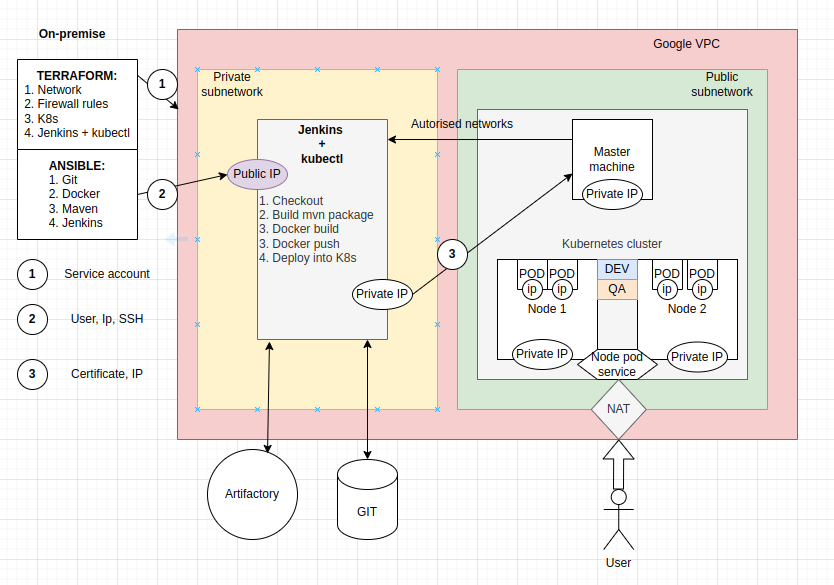
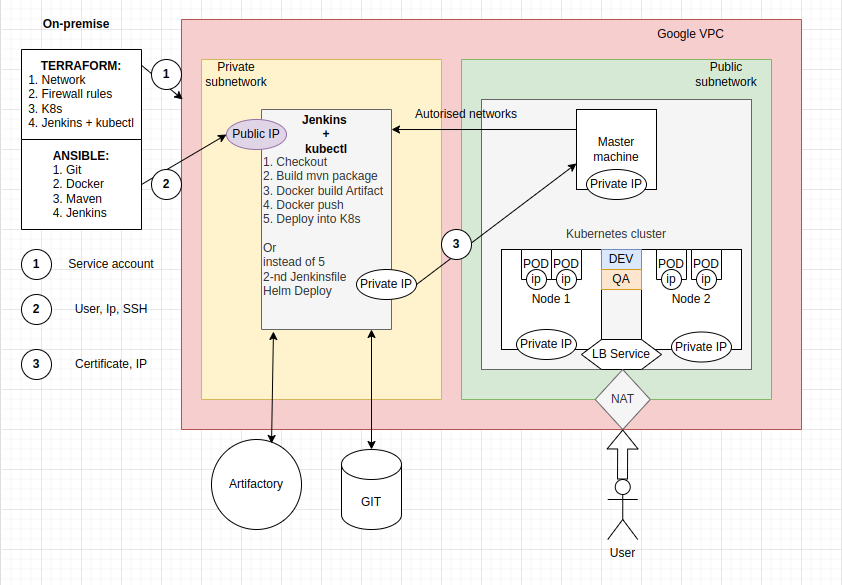
Readme updated

Changed region(s): [[0.0, 0.0308, 0.9664, 0.9846], [0.2806, 0.8923, 0.3429, 0.9231]]

diff --git a/README.md b/README.md
@@ -109,39 +109,79 @@ So, now we got simple CI/CD process, let's improve it: 
 ---
 
 # Let's start...
-There is my view for the moment, but will be udated
+There is architecture of my task
 
 ![Image alt](./images/1.png)
 
+## LIMITATIONS
+At the project start I have next limitations:
+- No active GCP account
+- Limitation of my PC is 2CPU and 4GiB memory
 
-## Tasks
-1. Artifactory set-up
 
-2. Git set-up
+# Deployment Prerequisites
+A unix-machine with Terraform and Ansible installed along with subscription to a cloud provider. In this case the cloud provider used is GCP, but this can be configured with any.
 
-3. Build process should use jenkinsfile, which located in build branch 
+### Technologies:
 
-4. Deploy process should use application_deploy.jenkinsfile and this file should be pulled from SCM 
+1. **GCP :** Google Cloud Platform is a public cloud vendor which offer their users a computing services over internet. 
+ 
+2. **Docker :** Docker is a open source platform which allows us to create, deploy and manage virtualized application. It enables us to separate our application from our infrastructure as we can build and run our application in a containerized environment. 
 
-5. LB service set-up
+3. **Jenkins :** It is a open source automation server which enables developers to reliably build, test and deploy their software. It orchestrate a chain of actions (build, test, deploy) to achieve the Continuous integration and continuous delivery process in an automated way.
 
-6. Namespaces
-7. README.md
-8. NEXUS автоматизация репозитория
-## Questions
-1. Is my jenkins server set-up correct?
+4. **Kubernetes :** Kubernetes or K8s, is a portable, extensible, open source platform or software that enables configuration, automation and management capabilities around containers. 
 
-Not yet
+### Terraform
+Terraform needs to be configured with a provider to manage resources. In this case a service account is set up, allowing Terraform to connect to my GCP project with a json file.
+Terraform was used to create my deployment infrastructure as code. I will have 1 Kubernetes Cluster and all it dependencies, 1 VM for controlling the clusters using Kubectl and testing the app and also a Jenkins CI/CD server which executes the pipeline by building, testing and deploying the application on the K8 cluster.
 
-2. Artifactory set-up automated or no?
+### Ansible
+A Unix based system is required in order to run ansible (I used Ubuntu 22.04 LTS), and configure the virtual machine created by Terraform.
 
-For now manually. Variables should go into jenkins
+Ansible was used to provision and configure the dependencies required to test and build my application on remote host. I created multiple custom roles inside Ansible that; install Docker, Install the applications my app needs to work, configure Jenkins by predefined (geerlingguy.jenkins) role and more.
 
-3. Is Jenkins set-up properly for git and Artifactory? Is it automated?
 
-For Git I need to set credentials. How they set it in Jenkins with Azure?
+### That part is imitated due to the limitations, but setup properly.
 
-4. How to build node pod service (NAT, Nexus)?
+# CI/CD, Jenkins
+
+Ok, so Jenkins is configured next way:
+
+1. User set
+2. Next plugins were installed:
+- maven Integration
+- Git and github
+- Docker pipeline
+- Google Kubernetes engine
+- Image Tag Parameter Plugin 2.0
+3. Github webhook was used with Jenkins on my localhost. HTTP was exposed by the Ngrok
+4. Credentials of GKE and Dockerhub were added to Jenkins secrets
+
+
+## CI/CD
+I should use Declarative pipeline in my Jenkinsfile
+
+1. Creating CI/CD pipeline in jenkins using the Jenkinsfile in the app repository
+
+2. Creating MAVEN package and test it.
+
+3. Using Dockerfile for creating the custom docker image for the above file.
+
+4. Pushing docker image to private repository in docker hub.
+
+5. Pulling Docker image from private repository in docker hub.
+
+6. Deploy Docker image to GKE Cluster using Kubernetes Deployment YAML file.
+
+There should be 1-st version of the application
+
+In the second version I have plan to separate Jenkinsfile on two Jenkinsfiles. 
+First Jenkinsfile will do all of the steps, except Deployment to the cubernetes.
+I will use second Jenkinsfile, which will be parametrized pipeline with the options to deploy to special environment ("DEV" or "QA") which will be located in the different namespaces of my cluster. Also it will be possible to chose the version of the artifact to deploy. It should be done by the **HELM CHART**s.
+
+
+
 
 ## Resourses:
 1. Petclinic with Azure and kubernetes:
@@ -165,9 +205,39 @@ https://blog.knoldus.com/how-to-deploy-application-on-gke-using-jenkins/
 5. Jenkins Kubernetes integration:
 https://www.youtube.com/watch?v=IluhOk86prA
 
-6. Nexus automated role with ansible:
-
-https://blog.sonatype.com/developing-an-ansible-role-for-nexus-repository-manager-v3.x
-
-7. Docker registry
+6. Docker registry
 https://docs.docker.com/registry/deploying/
+
+7. Jenkins-Docker-Kubernetes-GKE-Project
+https://medium.com/@tarun.k0/jenkins-docker-kubernetes-gke-project-9a804809352
+
+8. Ngrok
+https://ngrok.com/product
+
+9. Authorize the gcloud CLI
+https://cloud.google.com/sdk/docs/authorizing
+
+10. Helm: пошаговое создание чарта и деплоймента из Jenkins
+https://rtfm.co.ua/ru/helm-poshagovoe-sozdanie-charta-i-deplojmenta-iz-jenkins/
+
+11. Pull an Image from a Private Registry
+https://kubernetes.io/docs/tasks/configure-pod-container/pull-image-private-registry/
+
+12. Kubernetes troubleshooting
+https://hsto.org/webt/mc/sy/mg/mcsymgs-r_2zegnue4c1uvzcjmg.png
+
+
+
+Results:
+![Image alt](./images/2.png)
+
+![Image alt](./images/3.png)
+
+![Image alt](./images/4.png)
+
+![Image alt](./images/5.png)
+
+![Image alt](./images/6.png)
+
+![Image alt](./images/7.png)
+
